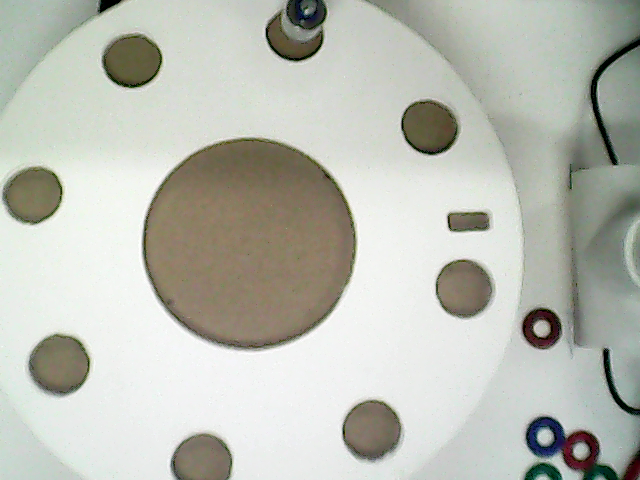
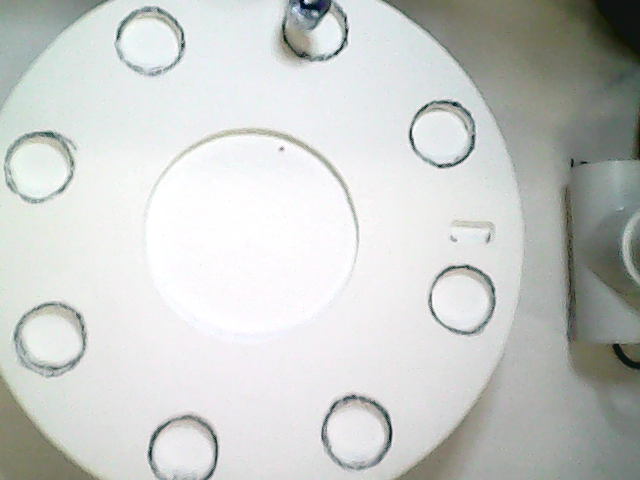
FUUUUUUUUUUUUUUUUUUUUUUUUUUUUUUUUUUUUUUUUUU

diff --git a/final/image_analyze_f.m b/final/image_analyze_f.m
@@ -40,10 +40,11 @@ function Image_Analysis = image_analyze_f(Filtered_img,og_fname)
                 y = 1;
             elseif (y+i > 480)
                 y = 480;
+            else
+                y = y+1;
             end
             
-            if (Filtered_img(j,y+i,:) == [1,1,1])
-                y = i+y;
+            if (Filtered_img(j,y,:) == [1,1,1])
                 break;
             end
         end
@@ -54,16 +55,42 @@ function Image_Analysis = image_analyze_f(Filtered_img,og_fname)
             y = 480;
         end
         color_vector = Image_Orig(j,y,:); 
+%         r = 1;
+%         while(1)
+            if ( ((color_vector(1)> 63) && (color_vector(1)< 255)) && color_vector(2) < 255 && color_vector(3) < 44 )
+                state(c).color = 'red';
+                break;
+            elseif ((color_vector(1) < 40) && ((0 < color_vector(2) && color_vector(2) < 146)) && (color_vector(3) < 68))
+                state(c).color = 'green';
+                break;
+            elseif ((color_vector(1)< 75) && (color_vector(2)< 79) && ((color_vector(3)< 255) && (color_vector(3) > 69)))
+                state(c).color = 'blue';
+                break;
+           %% elseif ( (134 < color_vector(1) && color_vector(1) < 255 ) && ((color_vector(2) < 255) && (color_vector(2) > 145)) && color_vector(3) < 111)
+           %%     state(c).color = 'yellow';
+            %%    break;
+            else
+                state(c).color = 'yellow';
+                break;
+            end
+%         end
 
-        if (color_vector(1)/(color_vector(1)+color_vector(2)+color_vector(3))>= 0.4)
-            state(c).color = 'red';
-        elseif (color_vector(2)/(color_vector(1)+color_vector(2)+color_vector(3))>= 0.4)
-            state(c).color = 'green';
-        elseif (color_vector(3)/(color_vector(1)+color_vector(2)+color_vector(3))>= 0.4)
+
+        %{
+        if (double(color_vector(1))/(double(color_vector(1))+double(color_vector(2))+double(color_vector(3)))>= 0.4)
+            if (double(color_vector(2))/(double(color_vector(1))+double(color_vector(2))+double(color_vector(3)))>= 0.4)
+                state(c).color = 'yellow';
+            else
+                state(c).color = 'red';
+            end
+        elseif (double(color_vector(3))/(double(color_vector(1))+double(color_vector(2))+double(color_vector(3)))>= 0.4)
             state(c).color = 'blue';
+        elseif (double(color_vector(2))/(double(color_vector(1))+double(color_vector(2))+double(color_vector(3)))>= 0.36)
+            state(c).color = 'green';
         else
             state(c).color = 'yellow';
         end
+        %}
     end
     Image_Analysis = state;
 end

diff --git a/final/isolate_colors_f.m b/final/isolate_colors_f.m
@@ -8,25 +8,24 @@ pixel from the original unfilterd image
 This results in a finer filtering tool than just using erosion and dilation
 %}
 function corrected_img = isolate_colors_f(file_to_correct,thresh,OG_img)
-    red_hold   = [65,150];
-    green_hold = [40,90];
-    blue_hold  = [60,120];
     center_circle_x = 245;
     center_circle_y = 250;
     corrected_img = imread(file_to_correct);
-    orginal = imread(OG_img);
+    original = imread(OG_img);
     edge_of_board = 500;
     radius = 241;
     [height,width,~] = size(corrected_img);
     for i = 1:height
         for j= 1:width
+            %color_sum = corrected_img(i,j,1)+corrected_img(i,j,2)+corrected_img(i,j,3);
             if ((j > edge_of_board) || (radius+5 < sqrt(abs(i-center_circle_y)^2+abs(j-center_circle_x)^2) || ...
                                        (radius-40 > sqrt(abs(i-center_circle_y)^2+abs(j-center_circle_x)^2))))
                 corrected_img(i,j,:) = [0,0,0];
-            else if ((corrected_img(i,j,1) > red_hold(1))   && (corrected_img(i,j,1) < red_hold(2)))   || ...
-                    ((corrected_img(i,j,2) > green_hold(1)) && (corrected_img(i,j,2) < green_hold(2))) || ...
-                    ((corrected_img(i,j,3) > blue_hold(1))  && (corrected_img(i,j,3) < blue_hold(2)))
-                corrected_img(i,j,:) = orginal(i,j,:);
+            elseif (corrected_img(i,j,1) > thresh) || ...
+                   (corrected_img(i,j,2) > thresh) || ...
+                   (corrected_img(i,j,3) > thresh)
+
+                corrected_img(i,j,:) = original(i,j,:);
             else
                 corrected_img(i,j,:) = [0,0,0];
             end

diff --git a/final/init_cam_f.m b/final/init_cam_f.m
@@ -2,5 +2,5 @@
 function cam_profile = init_cam_f(webcam_list,cam_name)
     %searches webcam list camera name provided, then returns camera struct
     cam_profile = webcam(find(contains(webcam_list,cam_name)));
-    cam_profile.Brightness = 125; %scale brightness of image (idk what max val is -Uche)
+    cam_profile.Brightness = 150; %scale brightness of image (idk what max val is -Uche)
 end

diff --git a/final/del_deup_f.m b/final/del_deup_f.m
@@ -5,7 +5,11 @@
 function new_state = del_deup_f(state)
     len = state.Num_of_Shapes;
     new_state = state(1);
-    new_state(1).Num_of_Shapes = 1;
+    if (len > 0)
+        new_state(1).Num_of_Shapes = 1;
+    else
+        new_state(1).Num_of_Shapes = 0;
+    end
     n = 1;
     for i=1:len
         if(abs(new_state(n).Angle-state(i).Angle) > 20)

diff --git a/final/definitions.m b/final/definitions.m
@@ -14,4 +14,4 @@ position_param      = 0;
 
 cam_width           = 640;
 cam_height          = 480;
-color_thresh        = 50;
+color_thresh        = 40;
